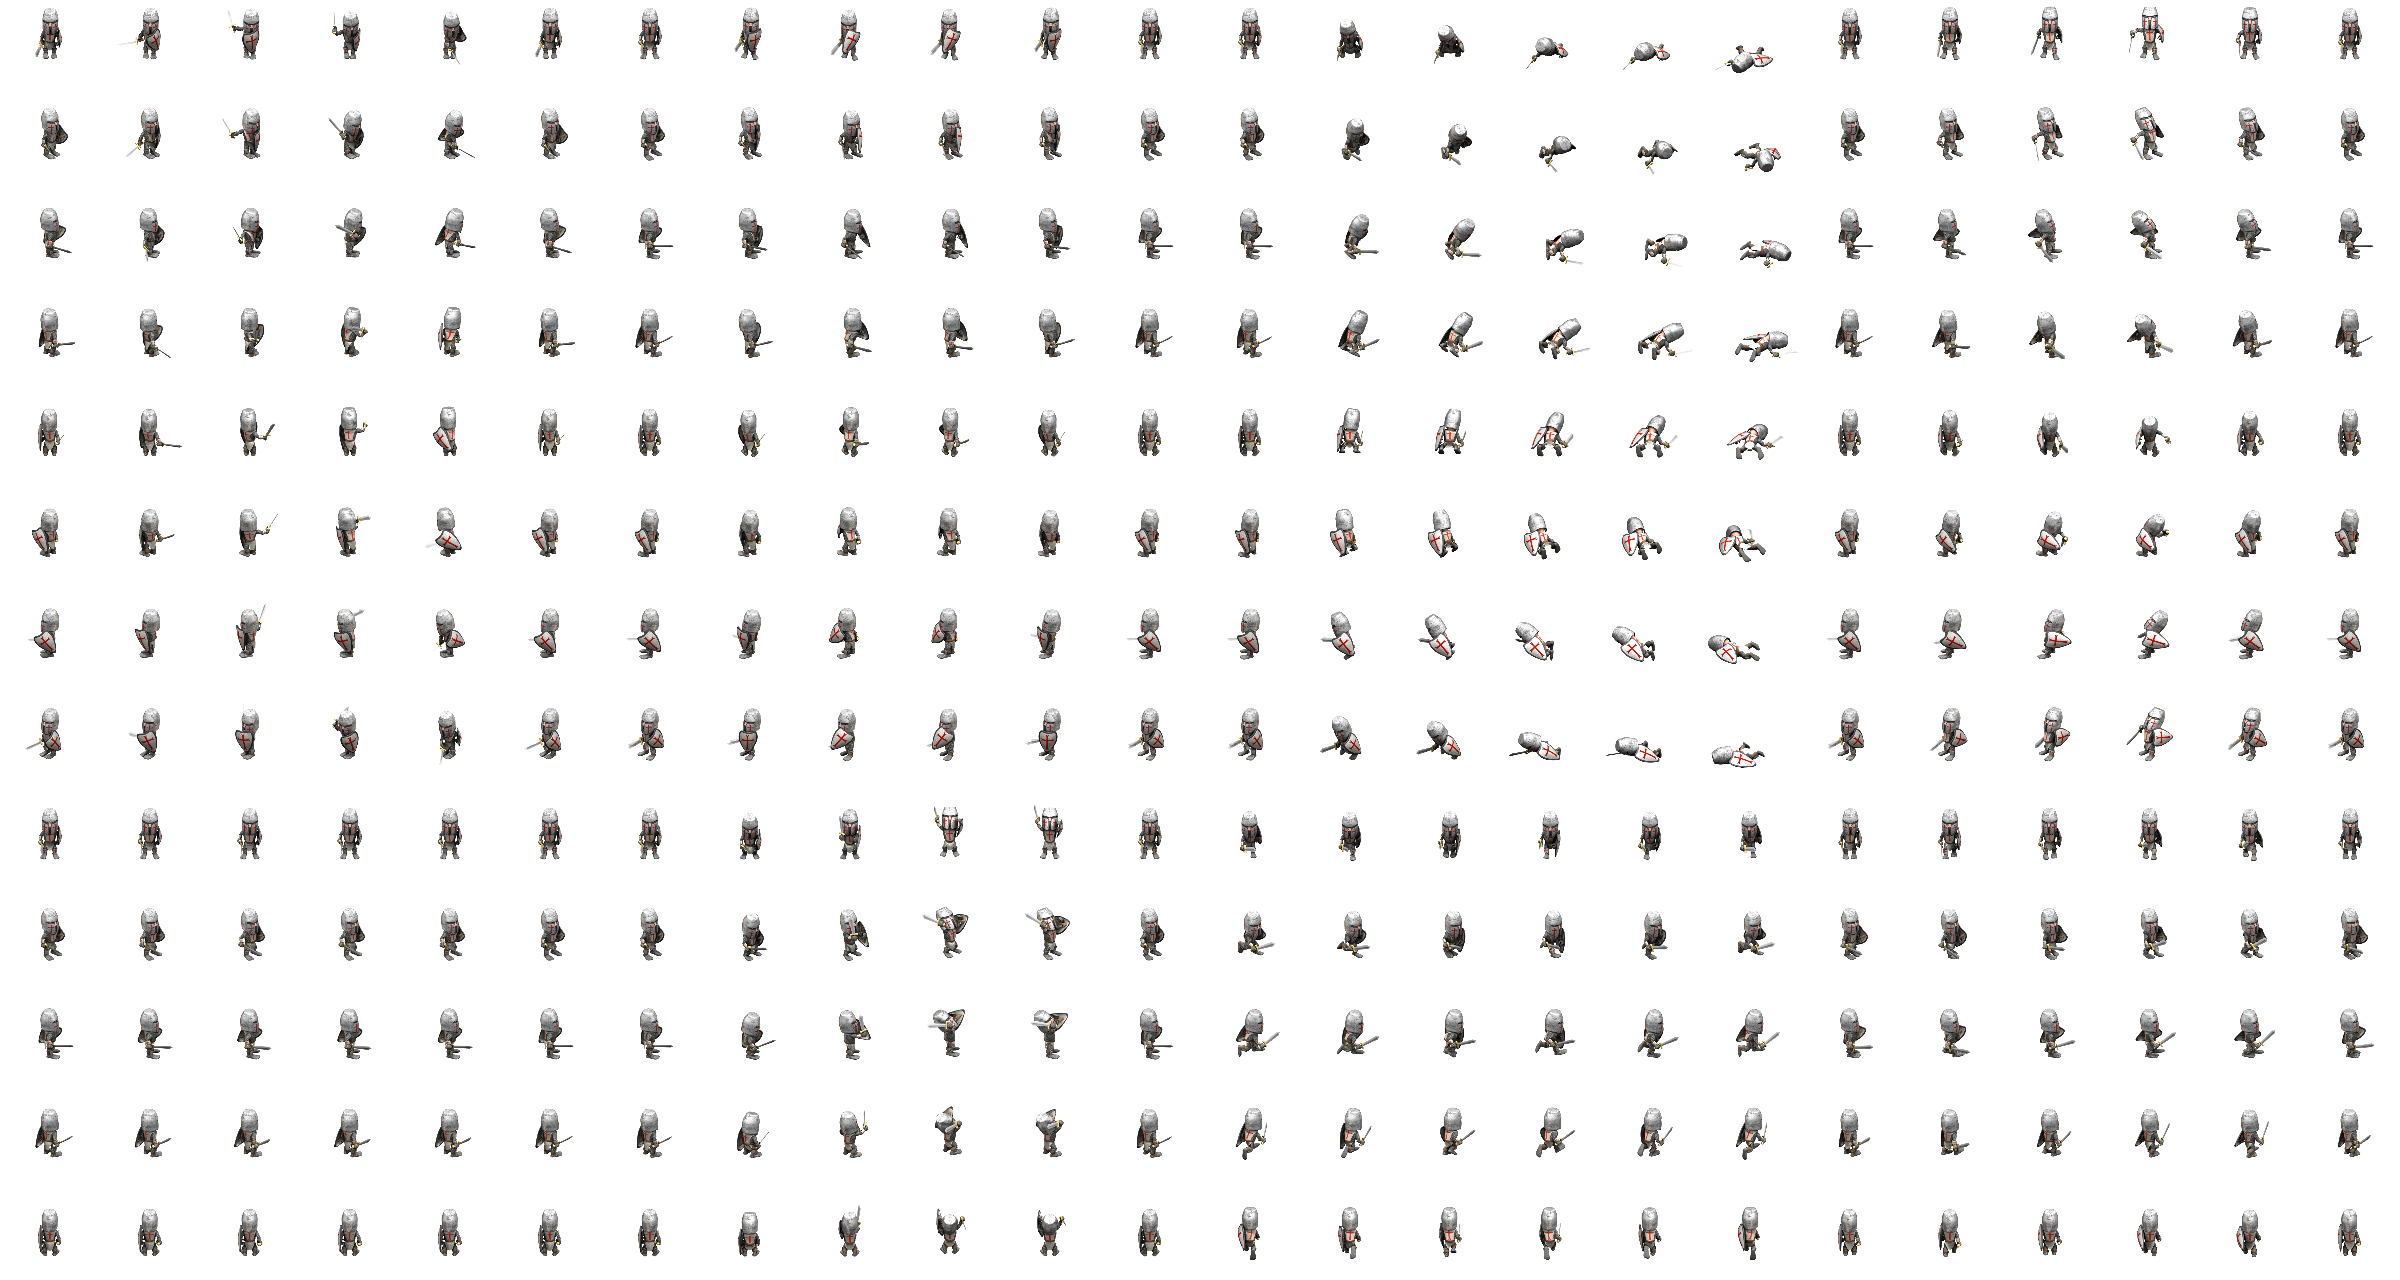
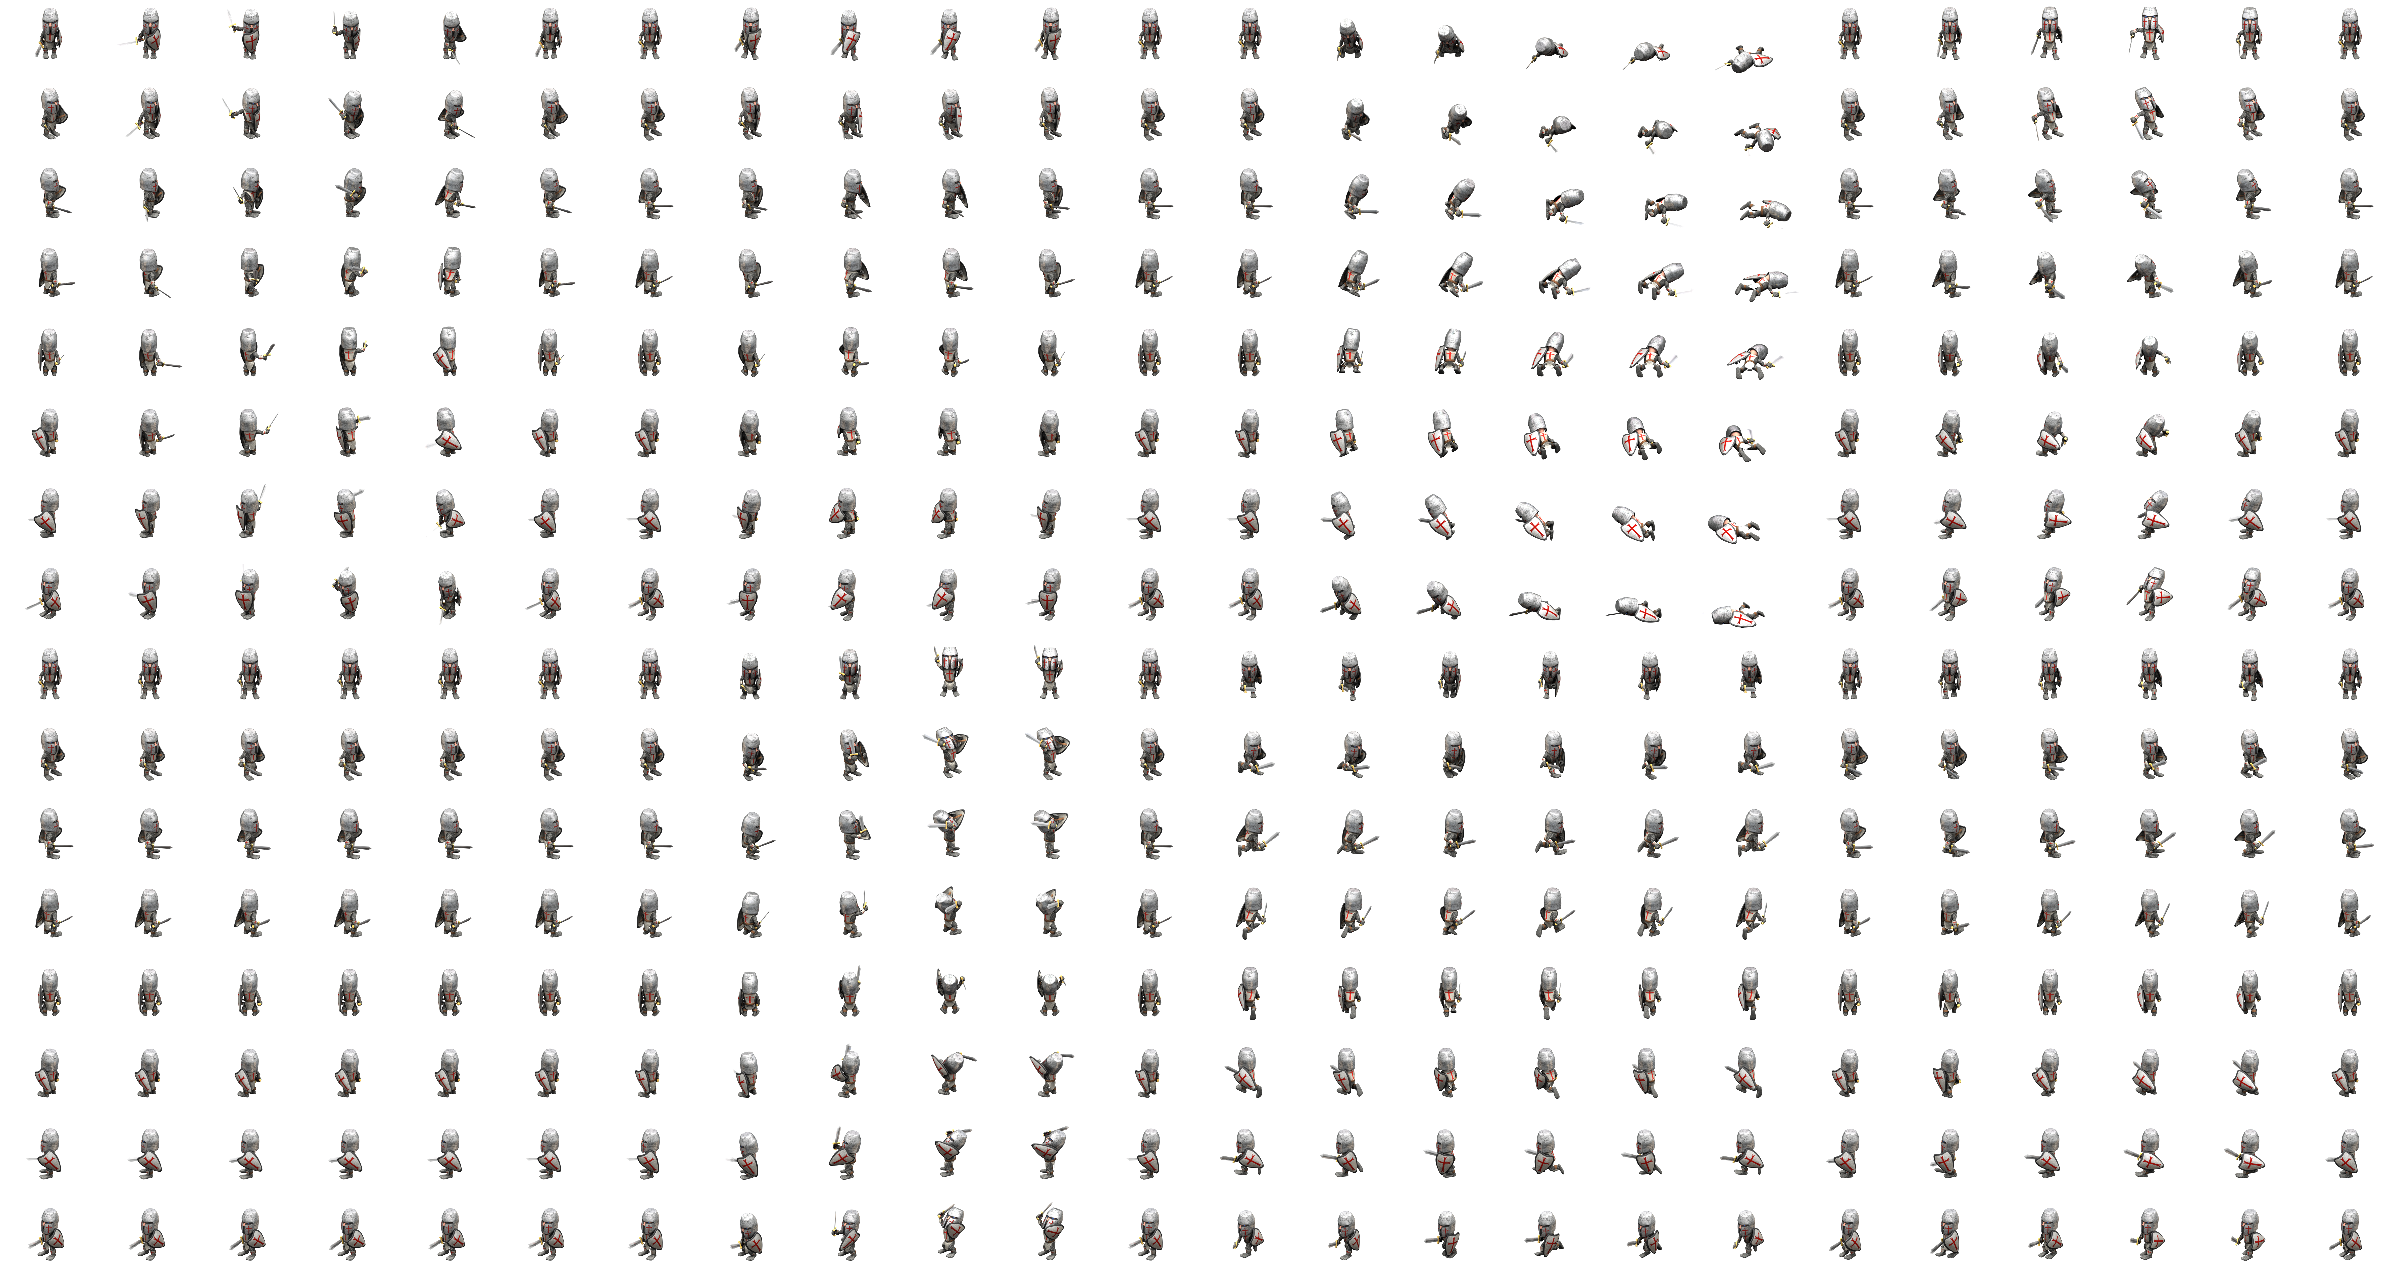
fix sprite cell height error.

diff --git a/marge.py b/marge.py
@@ -40,7 +40,7 @@ def marge_sprites(actor: Actor):
                     sprite = sprite.resize((SCALE_WIDTH, SCALE_HEIGHT), Image.Resampling.NEAREST)
                     
                     x = SCALE_WIDTH * ( FRAMES * col + frame )
-                    y = SCALE_WIDTH * ( DIRECTIONS * row + direction )
+                    y = SCALE_HEIGHT * ( DIRECTIONS * row + direction )
 
                     print(x, y, sprite_path)
 
